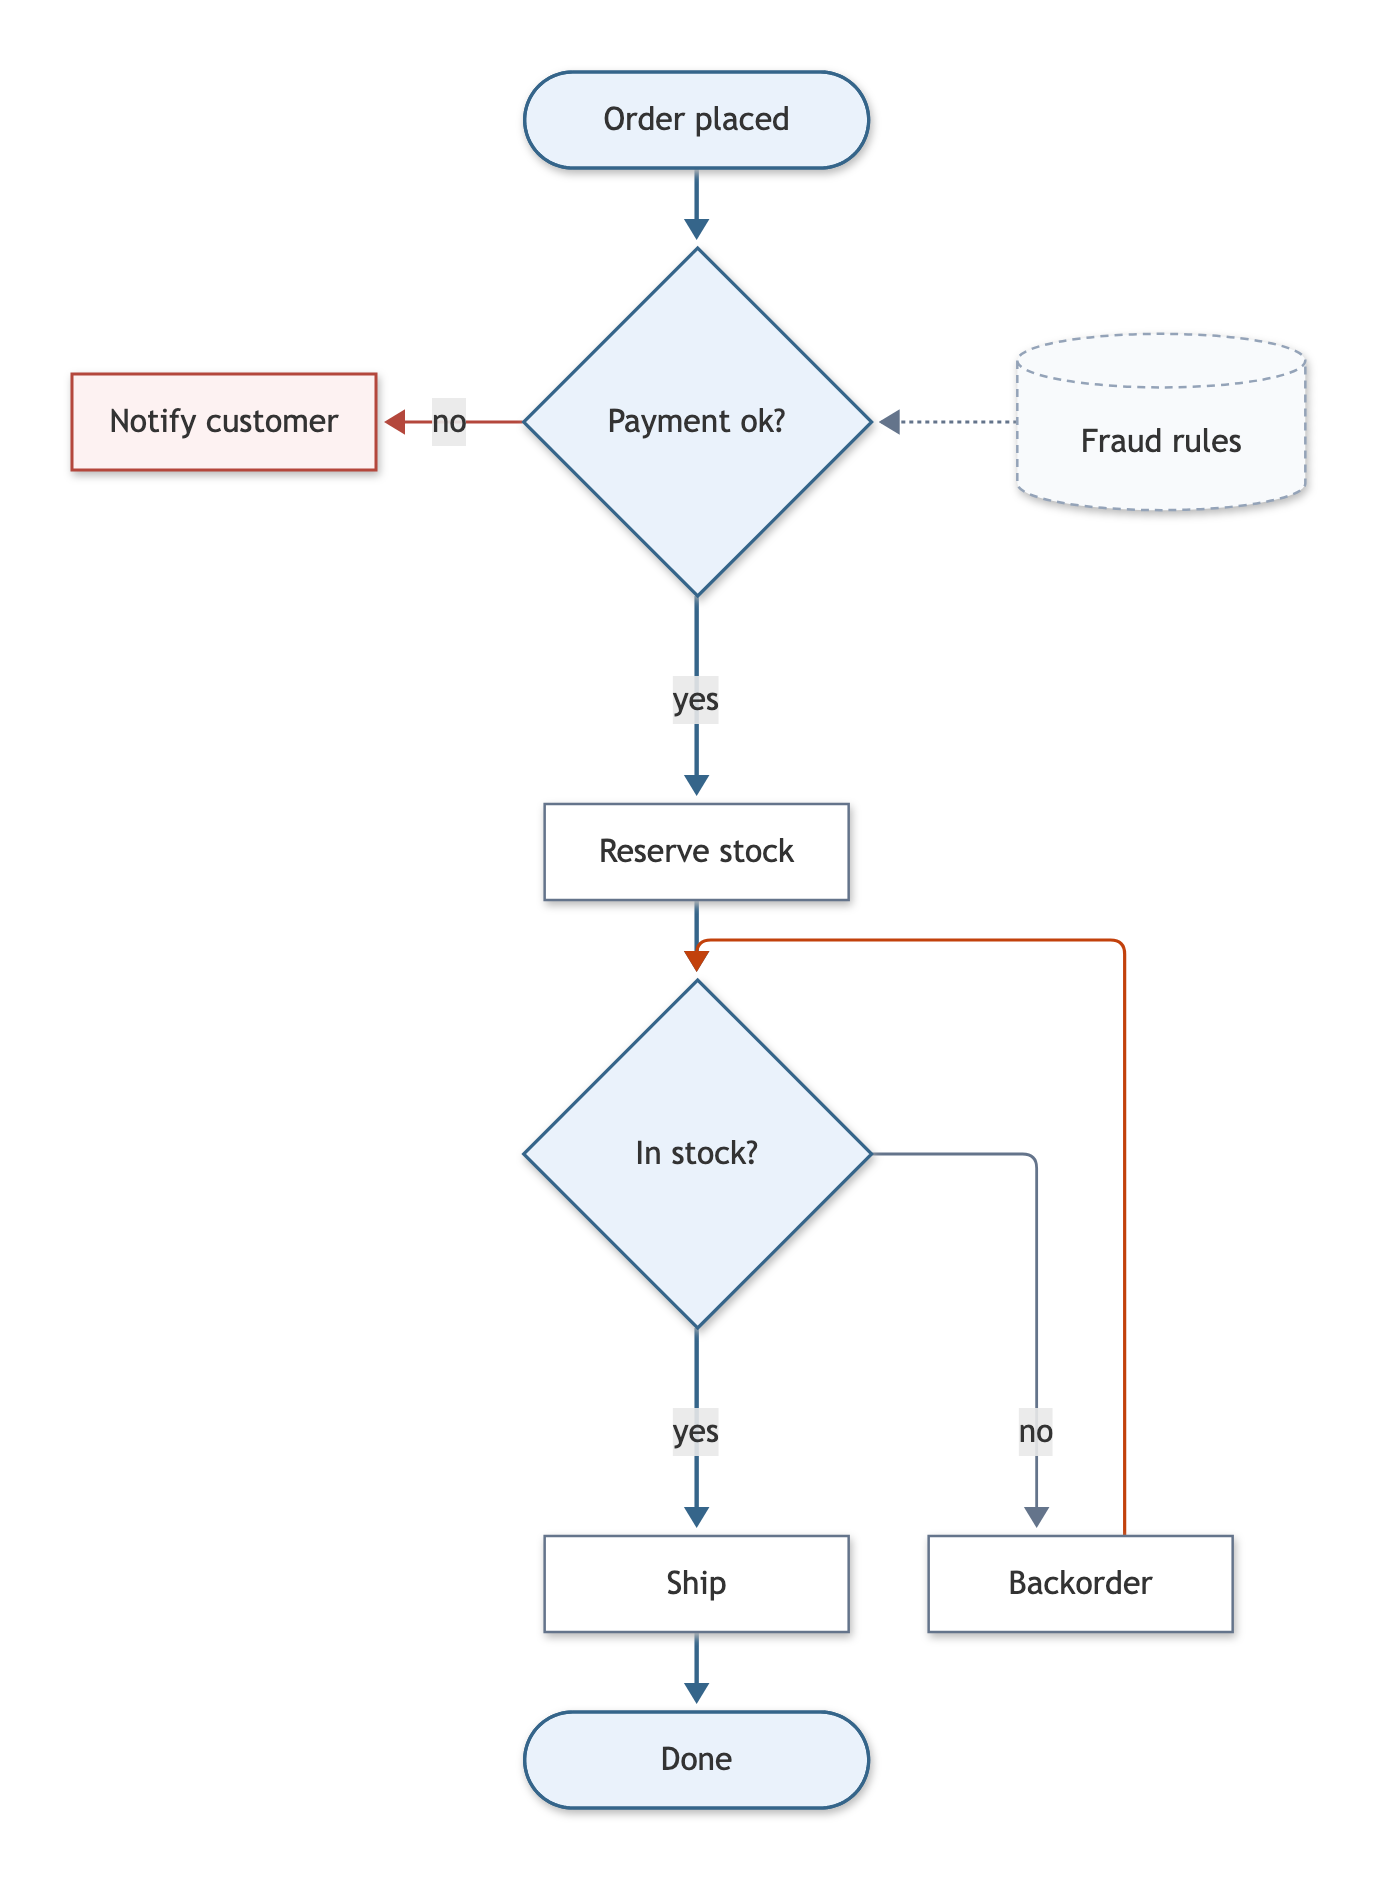
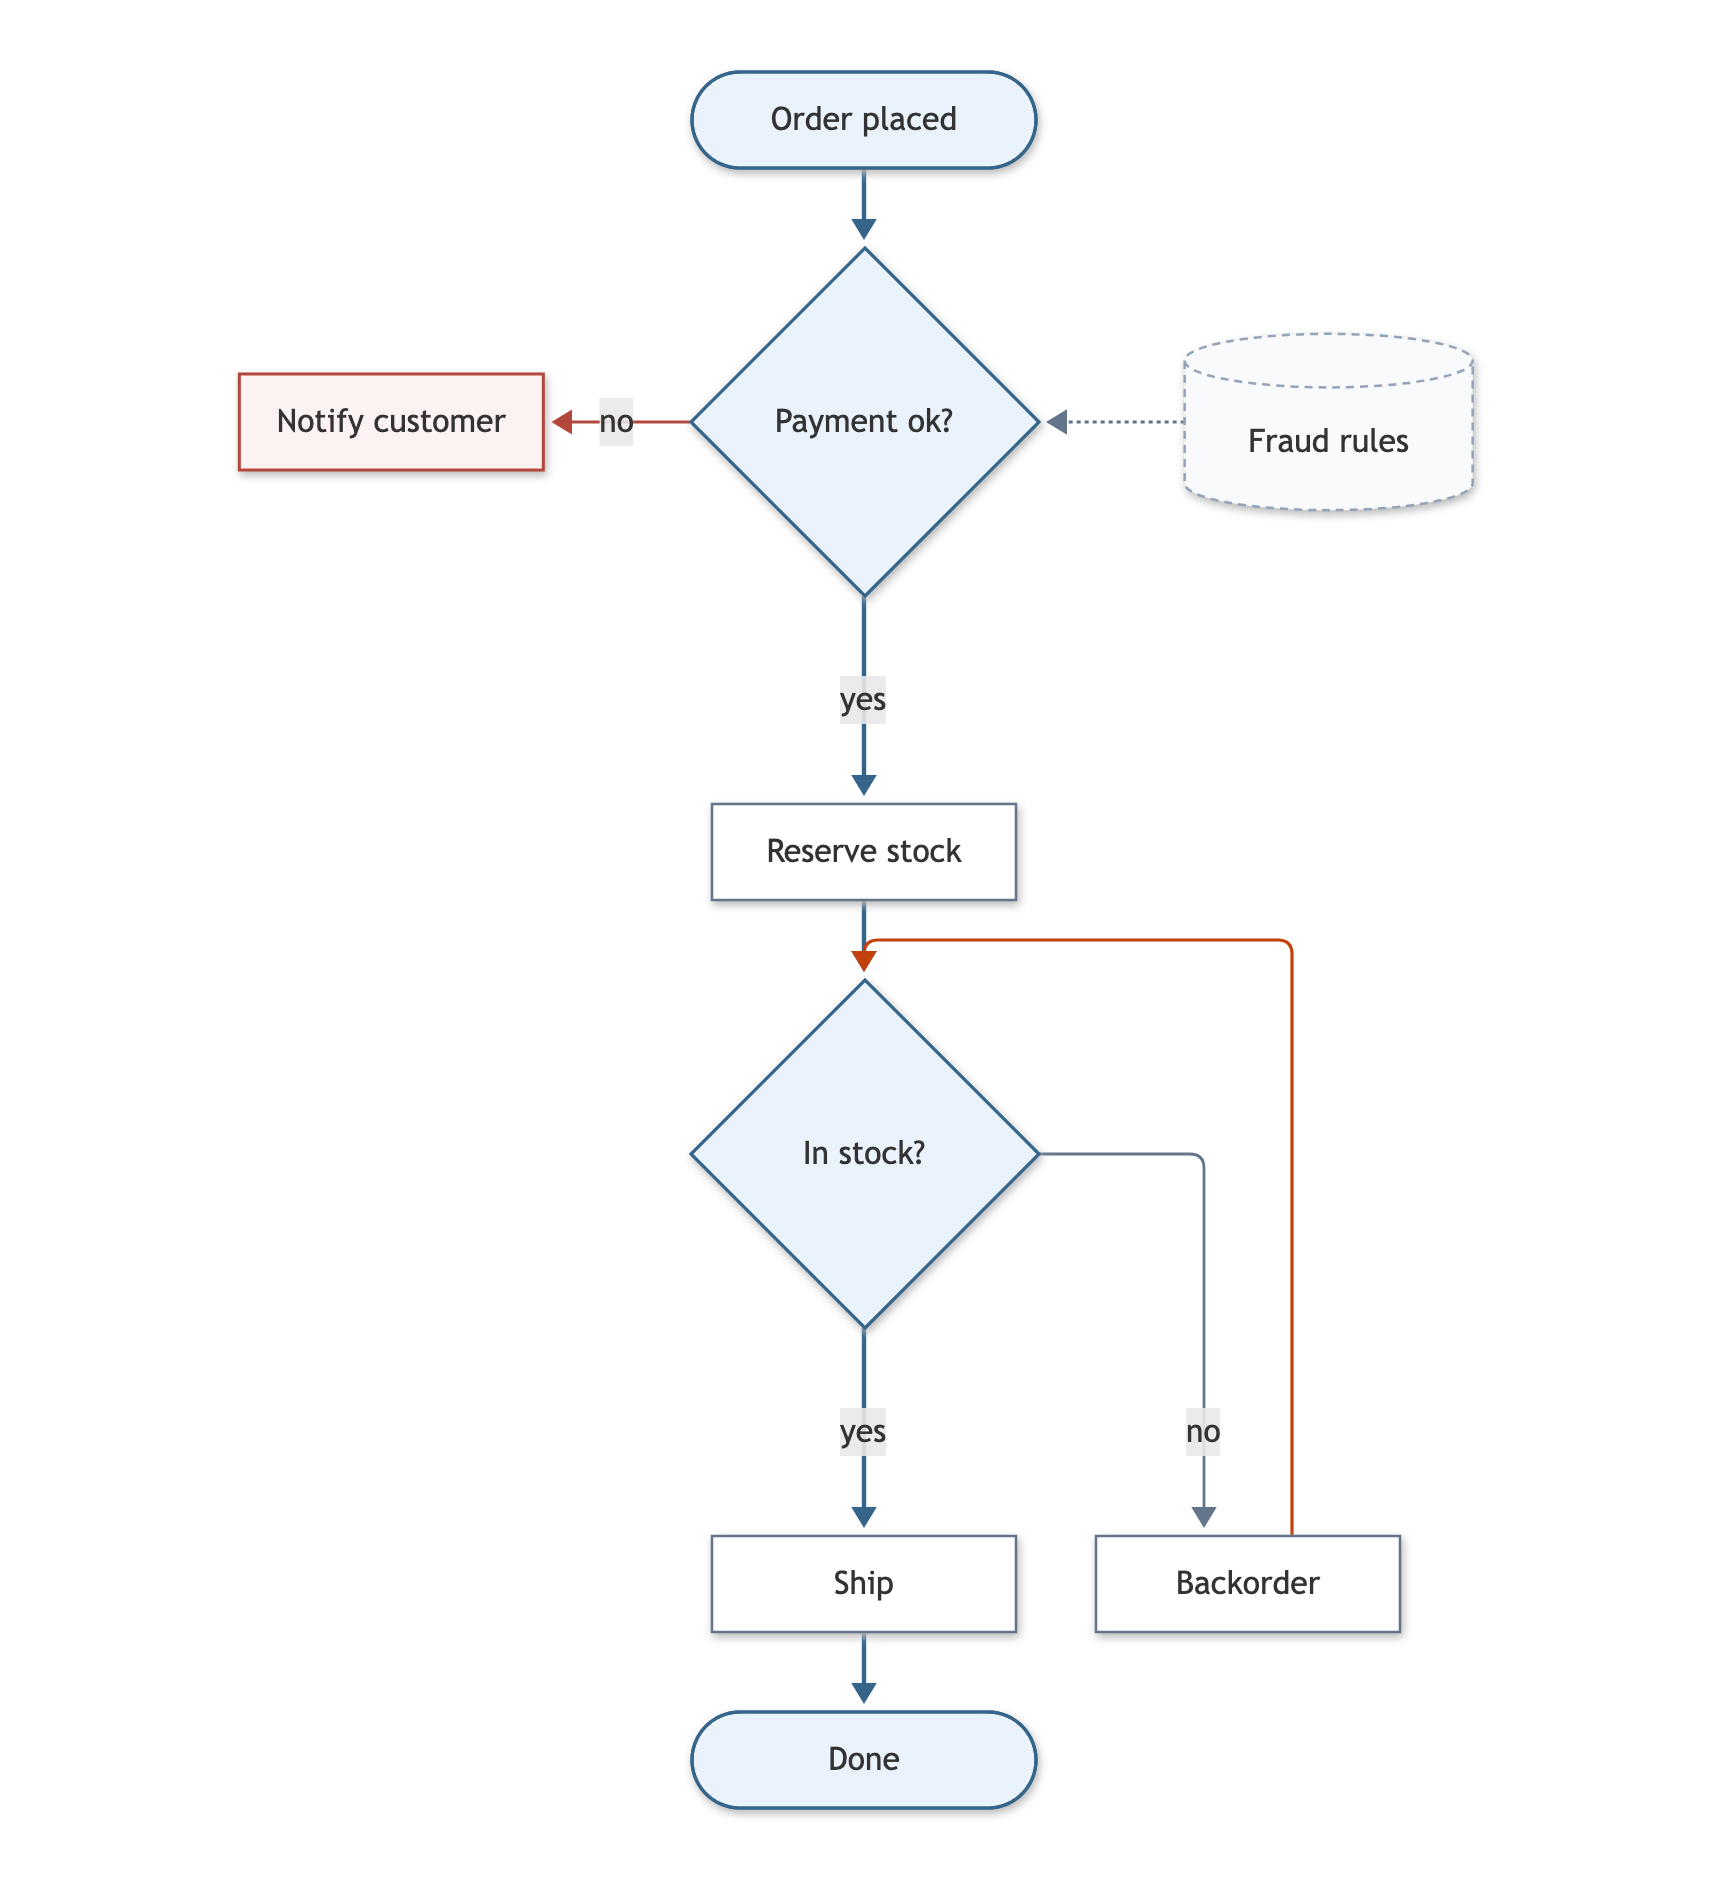
render: write SVGs as XML, since a label with a line break made the image unreadable, and frame narrow diagrams to an 800 px page by default

diff --git a/toolchain/cli.js b/toolchain/cli.js
@@ -28,7 +28,7 @@ const VERSION = JSON.parse(fs.readFileSync(new URL('../package.json', import.met
 
 const USAGE = `usage:
   semantic-mermaid check <file.mmd|-> [--verbose] [--json]
-  semantic-mermaid render <file.mmd|-> [-o out.svg|out.png ...] [--elk] [--no-colors] [--verbose] [--json]
+  semantic-mermaid render <file.mmd|-> [-o out.svg|out.png ...] [--page-width 800 | --no-fit] [--elk] [--no-colors] [--verbose] [--json]
   semantic-mermaid setup    download the headless browser that render uses (once, about 95 MB)
   semantic-mermaid source <file.svg>   print the diagram an SVG from render was drawn from
   semantic-mermaid --version`;
@@ -79,6 +79,8 @@ async function main() {
         out: { type: 'string', short: 'o', multiple: true },
         elk: { type: 'boolean', default: false },
         'no-colors': { type: 'boolean', default: false },
+        'no-fit': { type: 'boolean', default: false },
+        'page-width': { type: 'string' },
         candidate: { type: 'string' },
         json: { type: 'boolean', default: false },
         verbose: { type: 'boolean', short: 'v', default: false },
@@ -149,6 +151,8 @@ async function main() {
   const outs = values.out?.length ? values.out : [file.replace(/\.(mmd|mermaid|md|txt)$/i, '') + '.svg'];
   const unknown = outs.find((o) => !/\.(svg|png)$/i.test(o));
   if (unknown) return fail(`-o ${unknown}: the file name must end in .svg or .png`, 2);
+  const pageWidth = values['page-width'] === undefined ? undefined : Number(values['page-width']);
+  if (pageWidth !== undefined && !(pageWidth > 0)) return fail(`--page-width ${values['page-width']}: give the page's width in pixels, such as 800`, 2);
   const { createRenderer } = await import('./render.js');
   let renderer;
   try {
@@ -159,7 +163,7 @@ async function main() {
   try {
     let rendered;
     try {
-      rendered = await renderer.render(source, { layout: values.elk ? 'elk' : 'semantic', colors: !values['no-colors'], png: outs.some((o) => /\.png$/i.test(o)), candidate: values.candidate });
+      rendered = await renderer.render(source, { layout: values.elk ? 'elk' : 'semantic', colors: !values['no-colors'], png: outs.some((o) => /\.png$/i.test(o)), candidate: values.candidate, fit: values['no-fit'] ? false : pageWidth });
     } catch (error) {
       return failed(error);
     }

diff --git a/toolchain/render.js b/toolchain/render.js
@@ -9,11 +9,17 @@ import { openRenderer } from './browser.js';
 
 /**
  * @typedef {object} RenderOptions
- * @property {'semantic' | 'elk'} [layout]  'elk' draws Mermaid's default layout, for comparison
+ * @property {'semantic' | 'elk'} [layout]  'elk' draws Mermaid's ELK layout, for comparison
  * @property {boolean} [colors]             automatic colours (default on)
  * @property {boolean} [png]                also return a PNG screenshot
+ * @property {number | false} [fit]         width of the page the image will sit on: a narrower diagram
+ *                                          is centred in a frame that wide, as GitHub centres its own
+ *                                          Mermaid diagrams (default PAGE_WIDTH; false keeps the diagram's width)
  * @property {string} [candidate]           force one layout candidate (see the report's `tried` list)
  */
+
+/** A page an image is typically read on: a GitHub README column (about 830 px) or a chat column (about 770 px). */
+export const PAGE_WIDTH = 800;
 
 /**
  * @typedef {object} Rendered
@@ -46,7 +52,7 @@ export async function createRenderer({ pages = 1 } = {}) {
     async render(source, options = {}) {
       const page = await acquire();
       try {
-        const out = await page.evaluate(([s, o]) => /** @type {any} */ (window).renderDiagram(s, o), [source, { layout: options.layout ?? 'semantic', colors: options.colors !== false, candidate: options.candidate }])
+        const out = await page.evaluate(([s, o]) => /** @type {any} */ (window).renderDiagram(s, o), [source, { layout: options.layout ?? 'semantic', colors: options.colors !== false, candidate: options.candidate, fit: options.fit ?? PAGE_WIDTH }])
           .catch((/** @type {Error} */ error) => { throw new Error(cleanMermaidError(error.message)); });
         const png = options.png ? await page.locator('#stage').screenshot() : undefined;
         return { ...out, png };

diff --git a/toolchain/page.html b/toolchain/page.html
@@ -24,7 +24,7 @@
   /**
    * Render one diagram into the stage.
    * @param {string} source Mermaid or Semantic Mermaid text
-   * @param {{ layout?: 'semantic' | 'elk', colors?: boolean, candidate?: string }} options
+   * @param {{ layout?: 'semantic' | 'elk', colors?: boolean, candidate?: string, fit?: number | false }} options
    */
   window.renderDiagram = async (source, options = {}) => {
     const layout = options.layout ?? 'semantic';
@@ -42,10 +42,19 @@
     stage.innerHTML = svg;
     const element = stage.querySelector('svg');
     const box = element.viewBox.baseVal;
-    element.setAttribute('width', String(box.width));
-    element.setAttribute('height', String(box.height));
+    // a diagram narrower than the page gets a frame as wide as the page, with the diagram in the middle
+    if (options.fit && box.width < options.fit) {
+      const pad = (options.fit - box.width) / 2;
+      element.setAttribute('viewBox', `${box.x - pad} ${box.y} ${options.fit} ${box.height}`);
+    }
+    const frame = element.viewBox.baseVal;
+    element.setAttribute('width', String(frame.width));
+    element.setAttribute('height', String(frame.height));
     element.style.maxWidth = 'none';
-    return { svg: stage.innerHTML, report: layout === 'semantic' ? semantic.report(id) ?? null : null, width: box.width, height: box.height, ms };
+    // XML, which an SVG file must be: Mermaid's labels hold HTML such as <br>, which the HTML serializer
+    // leaves unclosed and image viewers (GitHub's included) then refuse to draw
+    const xml = new XMLSerializer().serializeToString(element);
+    return { svg: xml, report: layout === 'semantic' ? semantic.report(id) ?? null : null, width: frame.width, height: frame.height, ms };
   };
   window.semanticMermaidReady = true;
 </script>

diff --git a/scripts/readme-images.js b/scripts/readme-images.js
@@ -36,12 +36,14 @@ try {
   for (const file of fs.readdirSync(EXAMPLES).filter((f) => f.endsWith('.mmd')).sort()) {
     const name = file.replace(/\.mmd$/, '');
     const source = fs.readFileSync(path.join(EXAMPLES, file), 'utf8');
-    const semantic = await renderer.render(source);
-    await page.setContent(`<style>${STYLE}</style><div class="figure">${semantic.svg}</div>`);
+    // the example picture sits on a page, framed to the page's width; the comparison panels keep their own
+    const framed = await renderer.render(source);
+    await page.setContent(`<style>${STYLE}</style><div class="figure">${framed.svg}</div>`);
     await page.locator('.figure').screenshot({ path: path.join(EXAMPLES, `${name}.png`) });
-    console.log(`examples/${name}.png  (${semantic.report?.layout?.chosen})`);
+    console.log(`examples/${name}.png  (${framed.report?.layout?.chosen})`);
     if (!COMPARED.has(name)) continue;
-    const elk = await renderer.render(source, { layout: 'elk' });
+    const semantic = await renderer.render(source, { fit: false });
+    const elk = await renderer.render(source, { layout: 'elk', fit: false });
     // wide drawings read better stacked; tall ones side by side
     const wide = (elk.width / elk.height + semantic.width / semantic.height) / 2 > 1.3;
     await page.setContent(`<style>${STYLE}</style><div class="figure ${wide ? 'stacked' : 'across'}">${panel('Mermaid · ELK layout', elk.svg, 'elk')}${panel('Semantic Mermaid', semantic.svg, 'ours')}</div>`);

diff --git a/scripts/comparison-images.js b/scripts/comparison-images.js
@@ -32,8 +32,8 @@ try {
   for (const file of files) {
     const name = file.replace(/\.mmd$/, '');
     const source = fs.readFileSync(path.join(dir, file), 'utf8');
-    const semantic = await renderer.render(source);
-    const elk = await renderer.render(source, { layout: 'elk' });
+    const semantic = await renderer.render(source, { fit: false });
+    const elk = await renderer.render(source, { layout: 'elk', fit: false });
     const wide = (elk.width / elk.height + semantic.width / semantic.height) / 2 > 1.3;
     await page.setContent(`<style>${STYLE}</style><div class="figure ${wide ? 'stacked' : 'across'}">${panel('Mermaid · ELK layout', elk.svg, 'elk')}${panel('Semantic Mermaid', semantic.svg, 'ours')}</div>`);
     const out = path.join(dir, `${name}${suffix}.png`);

diff --git a/test/render.test.js b/test/render.test.js
@@ -39,6 +39,12 @@ test('plain Mermaid renders unchanged in meaning, and directives are invisible t
   assert.match(elk.svg, /<svg/);
 });
 
+test('the SVG is well-formed XML, line breaks in labels included, so it shows as an image', async () => {
+  const { svg } = await renderer.render('flowchart TD\n  A[first<br/>second] --> B');
+  assert.doesNotMatch(svg, /<br>/);
+  assert.match(svg, /<br [^>]*\/>|<br\/>/);
+});
+
 test('the same source always renders to the same SVG', async () => {
   const first = await renderer.render(ORDER);
   const second = await renderer.render(ORDER);

diff --git a/scripts/compare.js b/scripts/compare.js
@@ -22,7 +22,7 @@ await Promise.all(files.map(async (file) => {
   const row = { id };
   for (const layout of /** @type {const} */ (['semantic', 'elk'])) {
     try {
-      const r = await renderer.render(source, { layout, png: Boolean(values.png && values.out) });
+      const r = await renderer.render(source, { layout, png: Boolean(values.png && values.out), fit: false });
       row[`${layout}Ms`] = Math.round(r.ms);
       if (values.out) {
         fs.writeFileSync(path.join(values.out, `${id}.${layout}.svg`), r.svg);

diff --git a/README.md b/README.md
@@ -132,7 +132,9 @@ semantic-mermaid render examples/order.mmd -o order.svg -o order.png
 semantic-mermaid source order.svg
 ```
 
-A file argument of `-` reads the diagram from standard input, so a diagram another program writes never needs a file; `render -` then takes the image to write from `-o`. `render` creates the image's folder, and writes nothing while the diagram has errors. Every SVG it writes carries the diagram's text, which `source` prints. `check` prints `ok`, or each problem with its line and what fixes it, and exits with status 1 when there is an error. With `@exit B -> X` in `examples/order.mmd` changed to `@exit B -> Y`:
+A file argument of `-` reads the diagram from standard input, so a diagram another program writes never needs a file; `render -` then takes the image to write from `-o`. `render` creates the image's folder, and writes nothing while the diagram has errors. Every SVG it writes carries the diagram's text, which `source` prints.
+
+`render` sizes images for a page about 800 px wide, the width of a GitHub README or a chat column: a narrower diagram is centred in a frame that wide, the way GitHub centres its own Mermaid diagrams, at the same size. `--page-width` sets another width, and `--no-fit` keeps the diagram's own width. `check` prints `ok`, or each problem with its line and what fixes it, and exits with status 1 when there is an error. With `@exit B -> X` in `examples/order.mmd` changed to `@exit B -> Y`:
 
 ```
 order.mmd: 1 error
